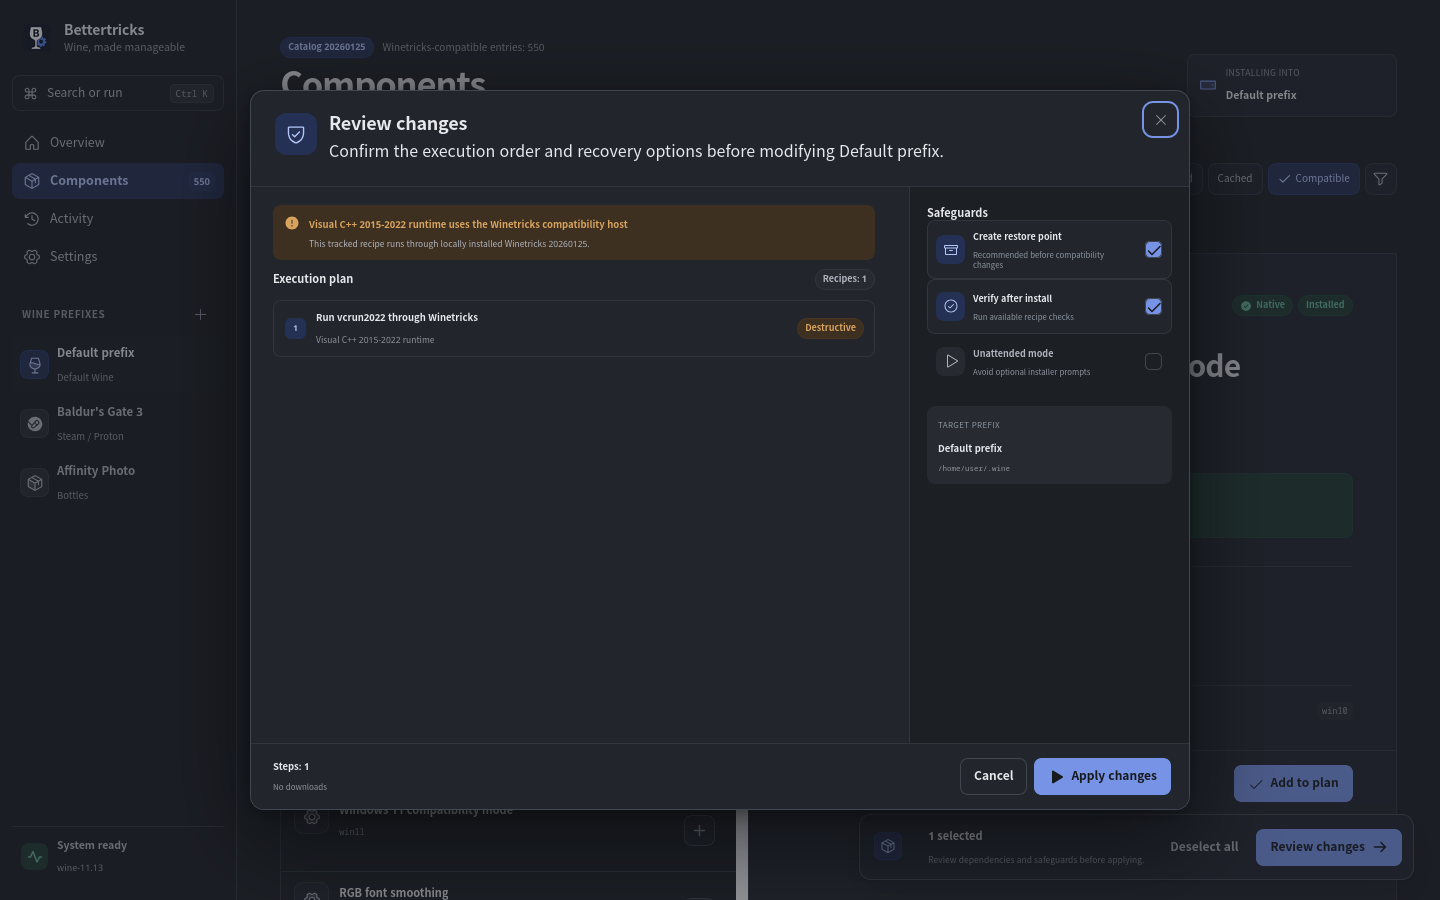
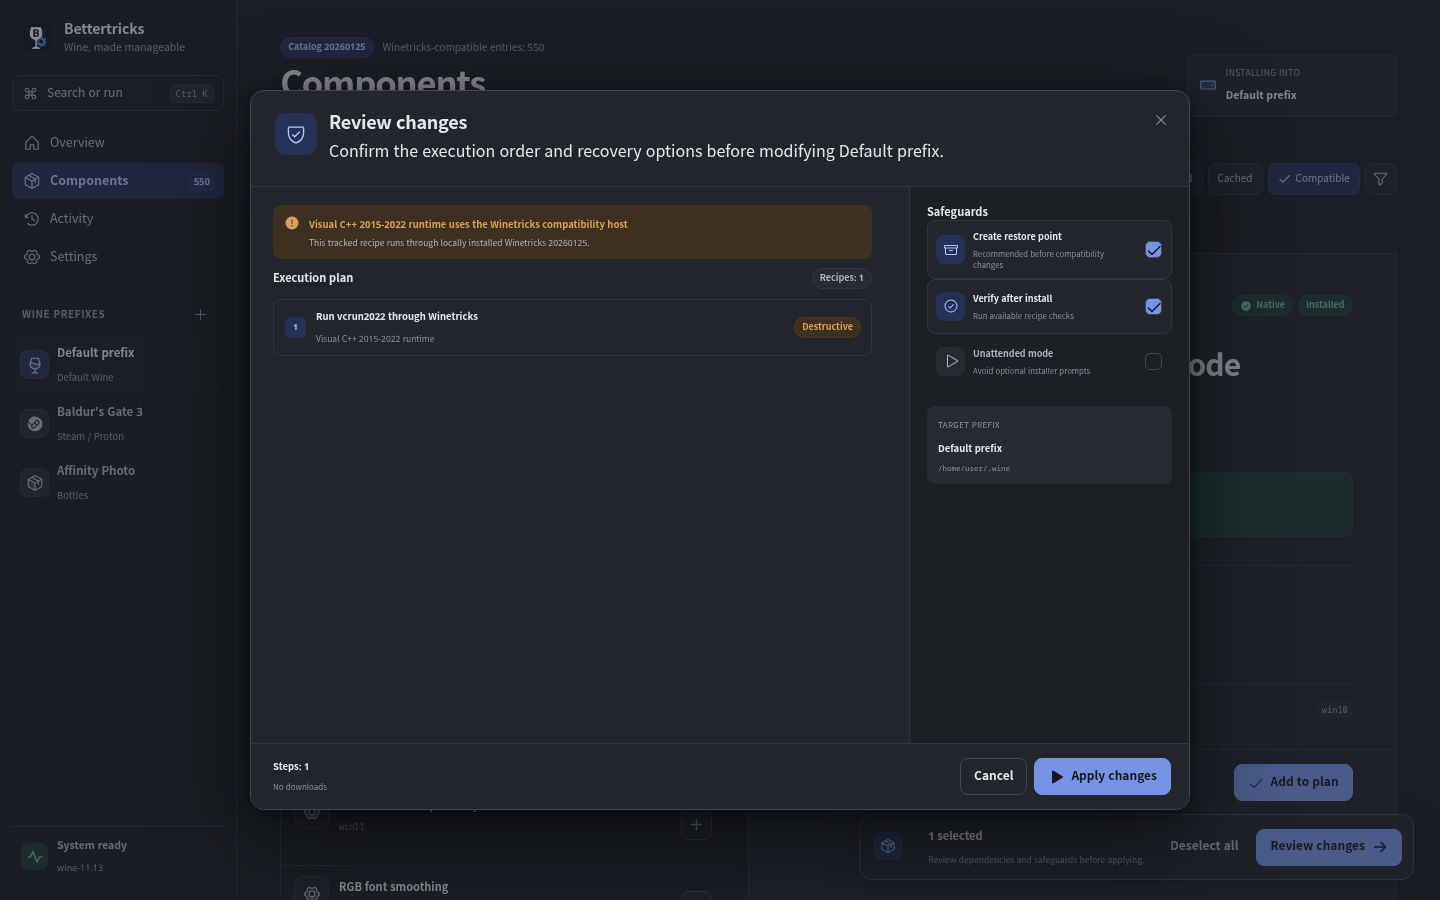
docs: describe 1.1 behaviour and refresh the screenshots

diff --git a/docs/architecture.md b/docs/architecture.md
@@ -57,15 +57,23 @@ and passed as one process argument. `broken_upstream` remains searchable but can
 
 ## Operation lifecycle
 
-Only one operation can mutate a prefix at a time. Other prefixes may run independently.
-Every operation is persisted and emits sequenced events through Tauri:
+Only one operation can mutate a prefix at a time, across the desktop app and the CLI: a
+cross-process lock fails closed, so a second operation on a busy prefix is refused. Other
+prefixes may run independently. Every operation is persisted and emits sequenced events through
+Tauri. The engine, database, CLI, and UI share one state model:
 
 ```text
 planned → preflight → running ⇄ waiting_for_user → succeeded
                        │   └─ recipe failure: record diagnostics, skip its dependants,
                        │      and continue independent recipes
-                       └────────────────────────→ failed / cancelled
+                       ├─ cancel → cancelling → cancelled
+                       └────────────────────────→ failed
+any live state ── startup reconciliation ──────→ interrupted
 ```
+
+An operation left running by a crash or quit is marked `interrupted` the next time the desktop
+app or CLI starts. Cancelling stops the whole Wine process group the operation started, not just
+the step in progress. `bettertricks ops list|clear [--json]` shows and clears the journal.
 
 Preflight, cancellation, storage, and security-policy failures stop the operation. A recipe-level
 installer or verification failure does not: Bettertricks stores the component, error, and bounded
@@ -73,8 +81,13 @@ process-output tail, skips only recipes that depend on it, and finishes every in
 The final operation is marked failed if any component failed or was dependency-skipped. The live
 drawer and persisted Activity entry can prepare a reviewed retry for one component or all failures.
 
+Changes to Steam, Lutris, Bottles, and Heroic prefixes are blocked with `runtime_unknown` when
+the launcher's Wine or Proton runtime cannot be determined and validated, until a runtime is
+chosen for the prefix or the change is forced.
+
 Downloads use HTTPS-capable Rust networking, optional Tor SOCKS routing, per-cache-path
-coordination, operation-unique partial files, and SHA-256 verification before activation.
+coordination, operation-unique partial files, and SHA-256 verification before activation. A cached file that fails verification is quarantined
+and other mirrors are tried before the download fails.
 Manual downloads use the same 16 GiB safety cap and are copied into the cache through an
 operation-unique staging file; a checksum mismatch removes the staging file and never activates it.
 Recipes may intentionally share Winetricks cache paths only when their filename, checksum,
@@ -87,7 +100,8 @@ the external host starts.
 
 ## Recovery
 
-Restore points prefer copy-on-write reflinks. Other filesystems use `tar.zst`. Records live
+Restore points prefer copy-on-write reflinks. Other filesystems use `tar.zst`. Restore points are
+kept without limit unless a per-prefix limit is chosen in Settings. Records live
 in SQLite while payloads live under the XDG state directory. Prefix deletion uses the
 desktop Trash through `gio`; there is no permanent-delete command in the normal UI.
 Restore reads reject symlinks and payloads outside Bettertricks' canonical backup root.
@@ -109,7 +123,8 @@ count with Ed25519. The updater then:
 5. renames the validated directory into versioned storage; and
 6. updates the active SQLite record transactionally.
 
-Older catalogs remain available for rollback. The release tool creates deterministic
+Older catalogs remain available for rollback, and a rollback pin survives a newer bundled
+catalog. The signed manifest also carries the pinned compatibility host (tag, URL, SHA-256). The release tool creates deterministic
 `tar.zst` bundles so signatures can be reproduced.
 
 ## Compatibility host and legacy `.verb` files

diff --git a/docs/parity.md b/docs/parity.md
@@ -53,7 +53,7 @@ A verb counts as native only when all applicable items are complete:
 
 ## Release gates
 
-The project must not call a release `1.0` until:
+The project did not call a release `1.0` until:
 
 - every non-broken entry has either an audited native implementation or a version-matched
   upstream-host execution path, with the mode visible before execution;
@@ -65,7 +65,7 @@ The project must not call a release `1.0` until:
 - destructive and recovery paths pass fault-injection tests; and
 - compatibility output is compared with the pinned Winetricks baseline.
 
-Bettertricks 1.0 enforces these gates in CI. The concrete runtime/package matrix, commands, and
+Bettertricks 1.0 and 1.1 enforce these gates in CI. The concrete runtime/package matrix, commands, and
 artifact policy are recorded in [release.md](release.md); compatibility-hosted entries remain
 separate from native maturity in every count and UI surface.
 

diff --git a/docs/development.md b/docs/development.md
@@ -160,3 +160,10 @@ BETTERTRICKS_SMOKE_SOURCE_HAN_ARCHIVE=/path/to/SourceHanSans.ttc.zip pnpm smoke:
 `pnpm smoke:proton` downloads the pinned GE-Proton release once into
 `$BETTERTRICKS_PROTON_CACHE` (or the XDG cache), verifies its published SHA-512, and repeats the
 same disposable-prefix suite with Proton's Wine tools first on `PATH`.
+
+## README screenshots
+
+The images in `docs/images/` are 1440x900 captures of the mock-backed web preview in the dark
+theme. To refresh them, run `pnpm dev:web` and capture each view (Overview, Components with
+Windows 10 compatibility mode selected, the Review changes dialog for one selected recipe,
+Activity, and Settings scrolled to Restore points) with headless Chromium.
